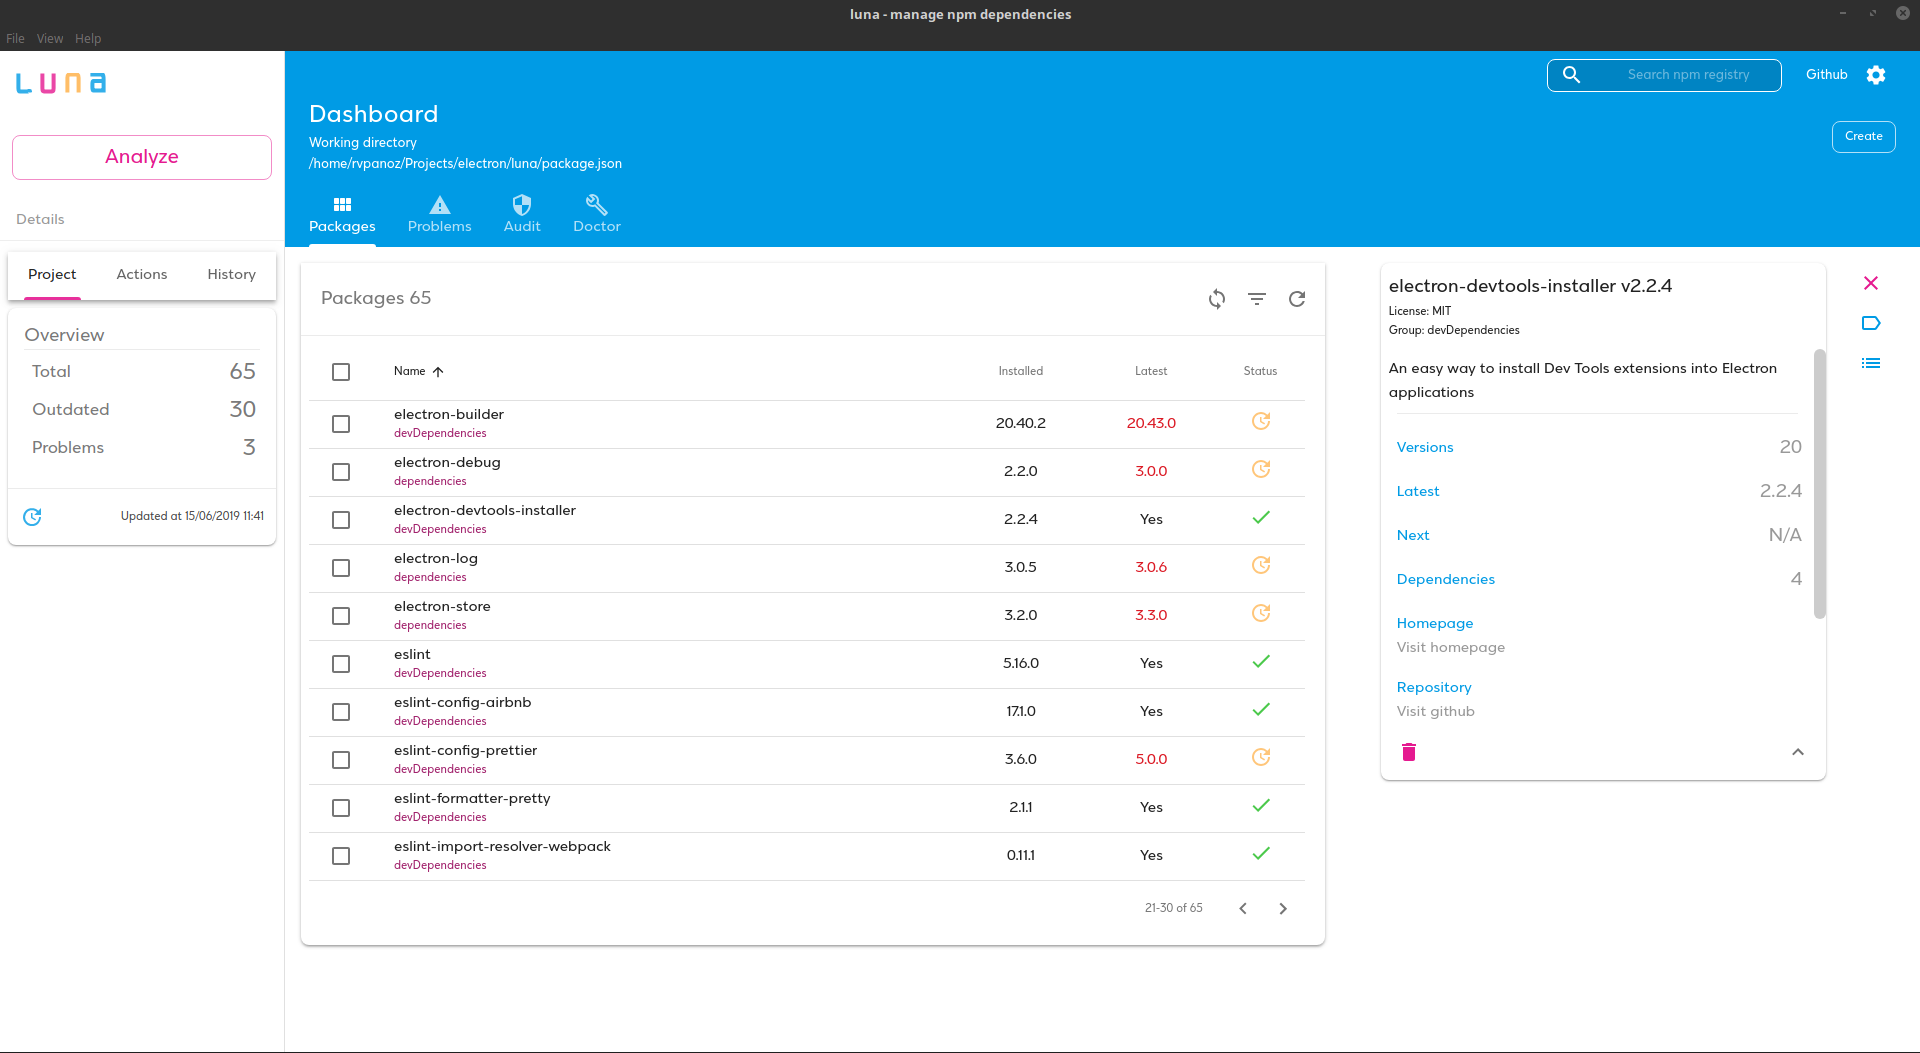
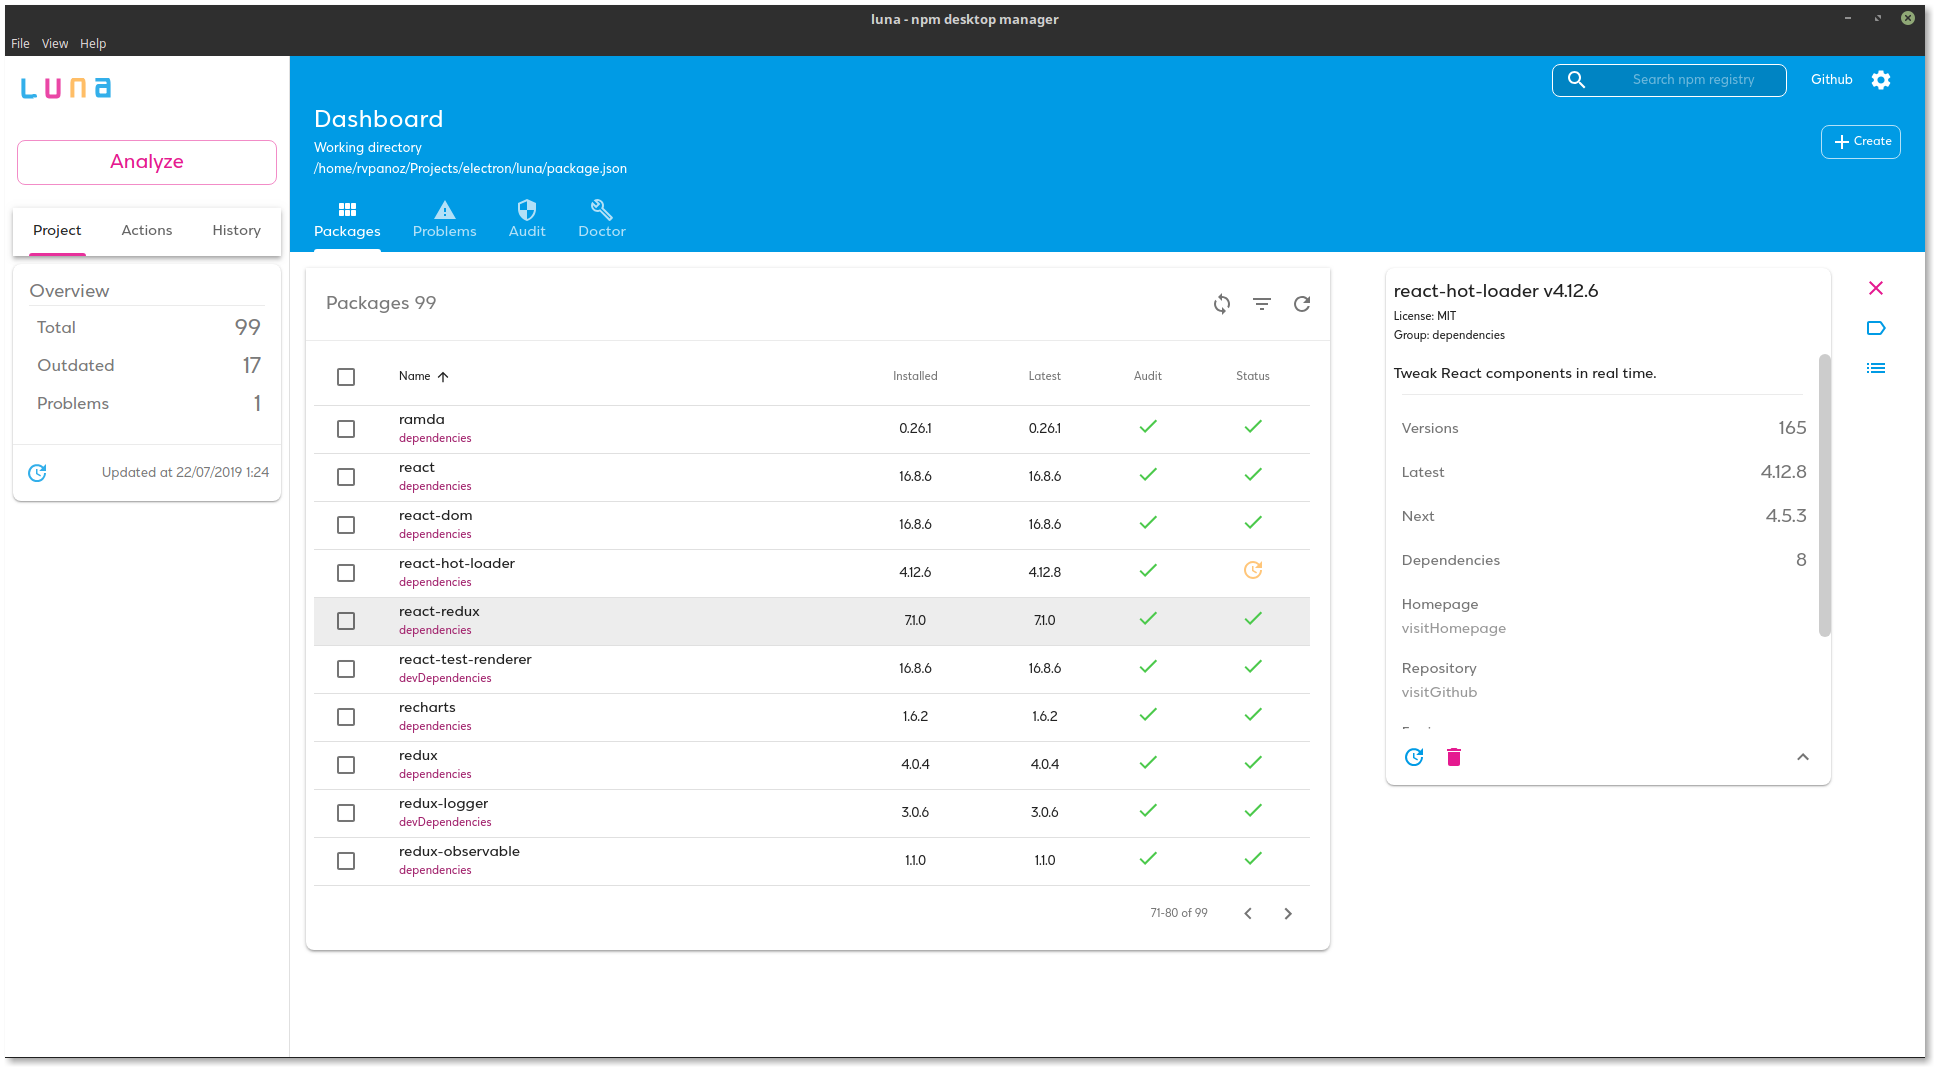
chore: update media, remove unused dependencies

diff --git a/README.md b/README.md
@@ -46,11 +46,7 @@ You can view my presentation in the GreeceJS meetup at http://bit.ly/2RES3AN
   </div>
   <div style="flex: 25%;max-width: 25%;padding: 0 4px;">
     <img style="margin-top: 8px;
-  vertical-align: middle;" title="luna-4" src="./media/images/luna-4.png"/>
-  </div>
-  <div style="flex: 25%;max-width: 25%;padding: 0 4px;">
-    <img style="margin-top: 8px;
-  vertical-align: middle;" title="luna-3" src="./media/images/luna-3.png"/>
+  vertical-align: middle;" title="luna-2" src="./media/images/luna-2.png"/>
   </div>
 </div>
 
